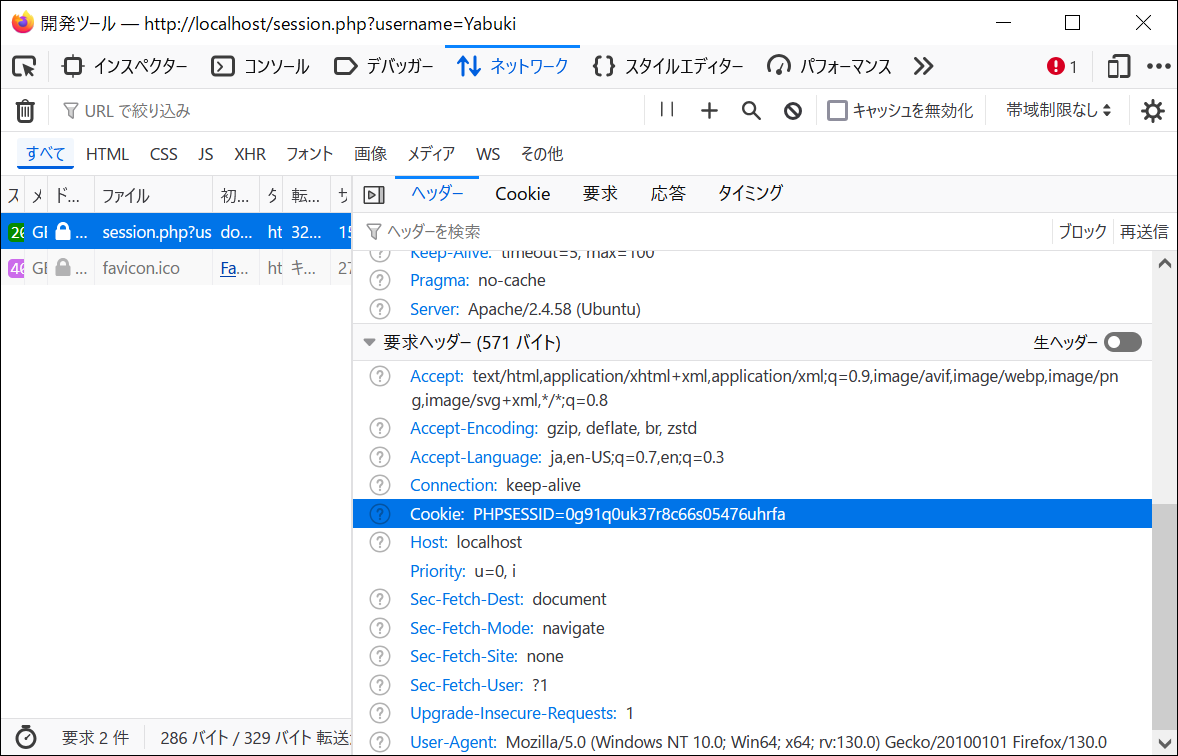
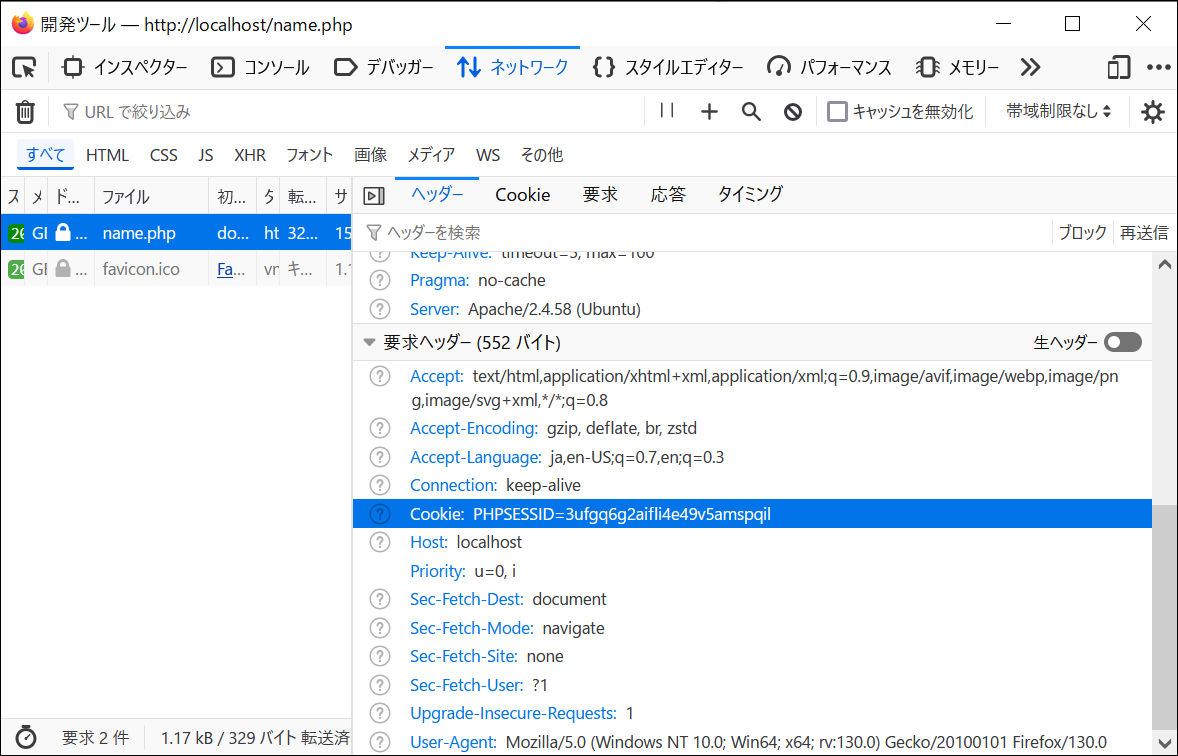
9章更新

diff --git a/07-09/html/session-none.php b/07-09/html/session-none.php
@@ -4,11 +4,15 @@ session_start();
 if (isset($_GET['username'])) {
   session_destroy();
   $params = session_get_cookie_params();
-  $params['secure'] = true;
-  $params['samesite'] = 'None';
+  $params['secure'] = true; // HTTPSでのみ送信される。
+  //$params['samesite'] = 'Strict'; //aでも送信されない。
+  //$params['samesite'] = 'Lax';    //imgやiframeでは送信されない。
+  $params['samesite'] = 'None';     //別ドメインにも送信される。
+  //$params['httponly'] = true; // JavaScriptからのアクセスを禁止する。
   session_set_cookie_params($params);
   session_start();
   session_regenerate_id(true);
+  
   $_SESSION['username'] = $_GET['username'];
 }
 

diff --git a/07-09/html/name.php b/07-09/html/name.php
@@ -1,0 +1,6 @@
+<?php
+session_start();
+
+if (isset($_SESSION['username'])) {
+  echo "Hello, {$_SESSION['username']}.\n";
+}

diff --git a/07-09/09.md b/07-09/09.md
@@ -13,11 +13,10 @@
 > [!IMPORTANT]
 > 「送信された名前を記憶する」という例を使って，Webサーバがクライアントを識別できることを示す。
 
-1. http://localhost/session.php?username=Taro にアクセスすると，「Hello, Taro.」と表示される。
-1. 同じブラウザでhttp://localhost/session.php?username=Yabuki にアクセスすると，「Hello, Yabuki.」と表示される。
-1. 同じブラウザでhttp://localhost/session.php にアクセスすると，やはり「Hello, Yabuki.」と表示される。
+1. http://localhost/session.php?username=Yabuki にアクセスすると，「Hello, Yabuki.」と表示される。
+2. 同じブラウザでhttp://localhost/name.php にアクセスすると，やはり「Hello, Yabuki.」と表示される。
 
-[session.php](html/session.php)では，1や2のクエリで指定された`username`の値をサーバサイドで記録している。3のように同じブラウザでアクセスすると，その値を使うようにしてある。
+[session.php](html/session.php)では，クエリの`username`の値をサーバサイドのセッションに記録している。2のように同じブラウザでアクセスして，そのセッションを利用できる。
 
 Firefoxの**ウェブ開発ツール**，Chromeの**デベロッパーツール**等でネットワークの状況を確認すると，リクエストヘッダに「`Cookie: PHPSESSID=●●●`」という項目があり，リクエスト時にクライアントからサーバにクッキーが送信されていることがわかる（画像では●●●は`0g91q0uk37r8c66s05476uhrfa`）。
 
@@ -26,7 +25,7 @@ Firefoxの**ウェブ開発ツール**，Chromeの**デベロッパーツール*
 このクッキーがあれば，別のクライアントからでも同じセッションにアクセスできる。例えば，次のようにcURLを使ってアクセスすると，「Hello, Yabuki.」と表示される。
 
 ```bash
-curl 'http://localhost/session.php' -H 'Cookie: PHPSESSID=●●●'
+curl 'http://localhost/name.php' -H 'Cookie: PHPSESSID=●●●'
 ```
 
 > [!TIP]
@@ -44,9 +43,13 @@ SNS-B|ホストB（localhost）|[session-none.php](html/session-none.php), [good
 
 次のような状況を想定する。
 
-- 運営者の異なる二つのWebサイト，Blog-AとSNS-Bがある。
-- ブラウザはサードパーティクッキーを許可している。
-- Blog-Aのtracking.htmlには，SNS-Bの画像（good.php）が埋め込まれている。
+1. 運営者の異なる二つのWebサイト，Blog-AとSNS-Bがある。
+1. ブラウザはサードパーティクッキーを許可している。
+1. Blog-Aのtracking.htmlには，SNS-Bの画像（good.php）が埋め込まれている。
+
+2について，デフォルトで許可しているブラウザとそうでないブラウザがある。許可されていない場合は，画像のように許可してから実験する。
+
+![](img/09-firefox-b.png)
 
 > [!TIP]
 > [good.php](html/good.php)はSVGの画像を生成する。
@@ -56,17 +59,17 @@ SNS-B|ホストB（localhost）|[session-none.php](html/session-none.php), [good
 > [!IMPORTANT]
 > SNS-Bのユーザ（Yabuki）の，SNS-Bとは運営者の異なるBlog-Aでの行動が，SNS-Bのログに記録される。
 
-1. SNS-Bのhttp://localhost/session-none.php?username=Yabuki にアクセスして，SNS-Bのクッキーを取得する。
+1. SNS-Bのhttp://localhost/session-none.php?username=Taro にアクセスして，SNS-Bのクッキーを取得する。
 2. Blog-Aのhttp://127.0.0.1/tracking.html に，同じブラウザでアクセスする。
 3. シェルで`tail /var/log/apache2/error.log`を実行して，SNS-Bのログを確認する。
 
 ```
 # tail /var/log/apache2/error.log
 # ...
-[Sat Sep 28 11:07:54.702307 2024] [php:notice] [pid 11847] [client 172.17.0.1:47396] Yabuki, referer: http://127.0.0.1/
+[Sat Sep 28 11:07:54.702307 2024] [php:notice] [pid 11847] [client 172.17.0.1:47396] Taro, referer: http://127.0.0.1/
 ```
 
-このSNS-Bのログから，SNS-Bの管理者は，このSNSのユーザYabukiがBlog-Aにアクセスしたことがわかる。
+このSNS-Bのログから，SNS-Bの管理者は，このSNSのユーザTaroがBlog-Aにアクセスしたことがわかる。
 
 ## Webアプリケーションの典型的な脆弱性
 
@@ -117,20 +120,18 @@ Hello, XYZ*.
 ```
 
 > [!TIP]
-> この作業をサポートするスクリプトを用意している。次のようにcreate-session.shをシェルで実行して，1行目の2行目のURLをブラウザで開き，3行目をシェルで実行する。
+> この実験をサポートするスクリプトを用意している。次のようにcreate-session.shをシェルで実行して，1行目の2行目のURLをブラウザで開き，3行目をシェルで実行する。
 
 ```bash
 # sh /var/www/techappweb/07-09/create-session.sh
-http://localhost/hello.php?username=%3Cscript%3Edocument.cookie%3D'PHPSESSID%3Dcqr1vj3gsd18kqguvpbh12ac5s'%3B%3C%2Fscript%3E
+http://localhost/hello.php?username=%3Cscript%3Edocument.cookie%3D'PHPSESSID%3D●●●'%3B%3C%2Fscript%3E
 http://localhost/rename.php
-curl http://localhost/session.php -H 'Cookie: PHPSESSID=cqr1vj3gsd18kqguvpbh12ac5s'
+curl http://localhost/session.php -H 'Cookie: PHPSESSID=●●●'
 
 # 二つのURLにブラウザでアクセスしてから，3行目を実行する。
-# curl http://localhost/session.php -H 'Cookie: PHPSESSID=cqr1vj3gsd18kqguvpbh12ac5s'
+# curl http://localhost/session.php -H 'Cookie: PHPSESSID=●●●'
 Hello, XYZ*.
 ```
-
-この問題は，[session.php](html/session.php)の代わりに[session-safe.php](html/session-safe.php)を使うと解決される。被害者がhttp://localhost/session-safe.php?username=Alice などの活動をすると，攻撃者が用意したセッションは使えなくなり，上記のように`curl ...`としても，何も得られない。
 
 ### CSRF
 
@@ -147,9 +148,9 @@ SNS-B|ホストB（localhost）|[session-none.php](html/session-none.php), [rena
 - 運営者の異なる二つのWebサイト，Blog-AとSNS-Bがある。
 - ブラウザはサードパーティクッキーを許可している。
 
-1. 被害者が，SNS-Bのhttp://localhost/session-none.php?username=Yabuki にアクセスして，SNS-Bのクッキーを取得する。
+1. 被害者が，SNS-Bのhttp://localhost/session-none.php?username=YABUKI にアクセスして，SNS-Bのクッキーを取得する。
 2. 被害者が，Blog-Aのhttp://127.0.0.1/csrf.html に，同じブラウザでアクセスすると，rename.php（ユーザ名に`*`を追加）が実行されてしまう。
-3. 被害者が，SNS-Bのhttp://localhost/session.php に，同じブラウザでアクセスすると，「Hello, Yabuki.」ではなく，「Hello, Yabuki*.」と表示される。
+3. 被害者が，SNS-Bのhttp://localhost/session.php に，同じブラウザでアクセスすると，「Hello, YABUKI.」ではなく，「Hello, YABUKI*.」と表示される。
 
 ### SQLインジェクション
 
